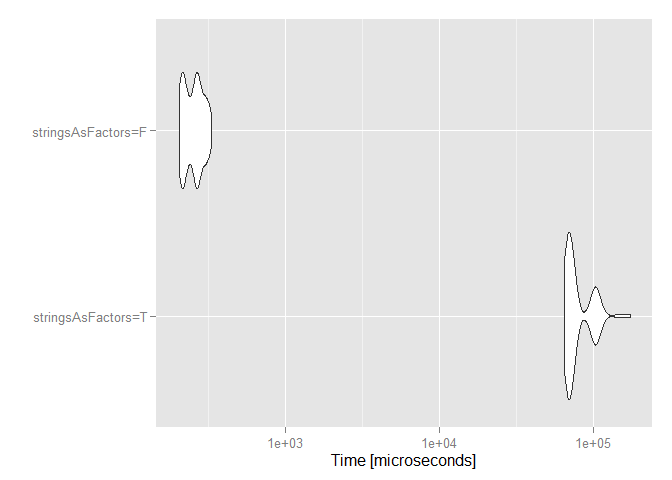
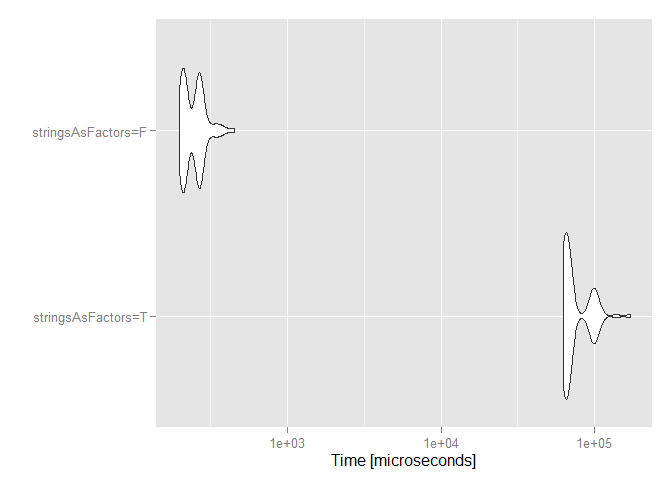
Changed tables from time units to relative units

diff --git a/RBenchmarkings.md b/RBenchmarkings.md
@@ -15,9 +15,6 @@ With this code I want to test the difference between using `stringsAsFactors = T
 
 
 ```r
-library(microbenchmark)
-library(ggplot2)
-
 numElements <- 1e6
 someStrings <- sapply(1:25, function(x) paste(sample(c(letters, LETTERS), 10, replace = TRUE), collapse = ""))
 
@@ -33,13 +30,13 @@ result <- microbenchmark(
 
 
 ```
-## Unit: microseconds
-##                expr       min        lq      mean     median        uq
-##  stringsAsFactors=T 63663.300 68011.793 79166.269 70793.0625 98871.511
-##  stringsAsFactors=F   202.341   216.087   252.626   256.7755   277.303
-##         max neval
-##  173628.180   100
-##     330.271   100
+## Unit: relative
+##                expr     min       lq     mean  median       uq      max
+##  stringsAsFactors=T 320.012 307.7241 304.4763 255.215 364.2376 378.7762
+##  stringsAsFactors=F   1.000   1.0000   1.0000   1.000   1.0000   1.0000
+##  neval
+##    100
+##    100
 ```
 
 ![](figure/unnamed-chunk-1-1.png) 
@@ -65,15 +62,15 @@ result <- microbenchmark(
 
 
 ```
-## Unit: milliseconds
-##               expr        min         lq       mean     median         uq
-##         Empty list 224.685868 257.948932 257.710482 262.888320 265.938461
-##  Preallocated list   7.970467   8.197734   8.929039   8.370383   8.880268
-##             lapply   2.262405   2.343781   2.549256   2.426257   2.515148
-##         max neval
-##  310.987875   100
-##   44.134482   100
-##    3.761266   100
+## Unit: relative
+##               expr       min         lq       mean     median         uq
+##         Empty list 99.312841 110.056732 101.092425 108.351391 105.734737
+##  Preallocated list  3.523006   3.497653   3.502606   3.449916   3.530715
+##             lapply  1.000000   1.000000   1.000000   1.000000   1.000000
+##       max neval
+##  82.68170   100
+##  11.73394   100
+##   1.00000   100
 ```
 
 ![](figure/unnamed-chunk-2-1.png) 
@@ -101,10 +98,10 @@ result <- microbenchmark(
 
 
 ```
-## Unit: microseconds
-##         expr   min    lq    mean median    uq    max neval
-##   $ operator 2.566 2.933 3.56717  3.300 3.300 20.528   100
-##  [[ operator 1.466 1.467 2.16325  1.833 1.834 22.727   100
+## Unit: relative
+##         expr      min       lq     mean   median       uq       max neval
+##   $ operator 1.750341 1.999318 1.648986 1.800327 1.799346 0.9032428   100
+##  [[ operator 1.000000 1.000000 1.000000 1.000000 1.000000 1.0000000   100
 ```
 
 ![](figure/unnamed-chunk-3-1.png) 
@@ -135,13 +132,13 @@ result <- microbenchmark(
 
 
 ```
-## Unit: microseconds
-##    expr       min         lq       mean     median         uq       max
-##     for  5382.925  5904.7220  6666.7661  6543.4520  7280.7865 10064.621
-##  mapply 14723.958 18135.1590 20743.7826 19241.9855 21320.1935 55921.199
-##   which    37.389    41.2380    50.5235    49.8525    52.6020    94.940
-##   v > t   199.408   205.6405   216.6775   211.6890   219.7525   330.271
-##  ifelse  1397.692  1454.3250  1717.3311  1473.0200  1610.6625  7048.570
+## Unit: relative
+##    expr        min         lq       mean     median         uq        max
+##     for 143.970820 143.186430 131.953767 131.256246 138.412731 106.010333
+##  mapply 393.804541 439.768151 410.576911 385.978346 405.311462 589.016210
+##   which   1.000000   1.000000   1.000000   1.000000   1.000000   1.000000
+##   v > t   5.333333   4.986675   4.288649   4.246307   4.177645   3.478734
+##  ifelse  37.382439  35.266623  33.990739  29.547565  30.619796  74.242364
 ##  neval
 ##    100
 ##    100
@@ -171,13 +168,10 @@ result <- microbenchmark(
 
 
 ```
-## Unit: microseconds
-##       expr       min       lq        mean    median         uq       max
-##      which    37.389    46.92    52.51384    50.219    56.4505   155.056
-##  Vectorize 15575.475 18293.51 21093.86502 20166.998 21997.0455 61137.339
-##  neval
-##    100
-##    100
+## Unit: relative
+##       expr      min       lq    mean  median       uq     max neval
+##      which   1.0000   1.0000   1.000   1.000   1.0000   1.000   100
+##  Vectorize 416.5791 389.8873 401.682 401.581 389.6696 394.292   100
 ```
 
 ![](figure/unnamed-chunk-5-1.png) 
@@ -185,3 +179,25 @@ result <- microbenchmark(
 Conclusion
 --------------
 When it comes to apply some change to those items in a vector that satisfy a certain restriction, it seems that firstly obtaining the indexes, with the `which` function, and then making the change is the most efficient way of those compared here.
+
+R source code vs R compiled code
+======
+
+
+
+```r
+f <- function(v, t) for(i in 1:length(v)) if(v[i] > t[i]) v[i] <- 0
+fc <- cmpfun(f)
+
+result <- microbenchmark(f(v, t), fc(v, t))
+```
+
+
+```
+## Unit: relative
+##        expr      min       lq     mean   median       uq       max neval
+##    R source 4.190293 3.889237 2.765919 3.807727 3.641431 0.1785578   100
+##  R compiled 1.000000 1.000000 1.000000 1.000000 1.000000 1.0000000   100
+```
+
+![](figure/unnamed-chunk-6-1.png) 
